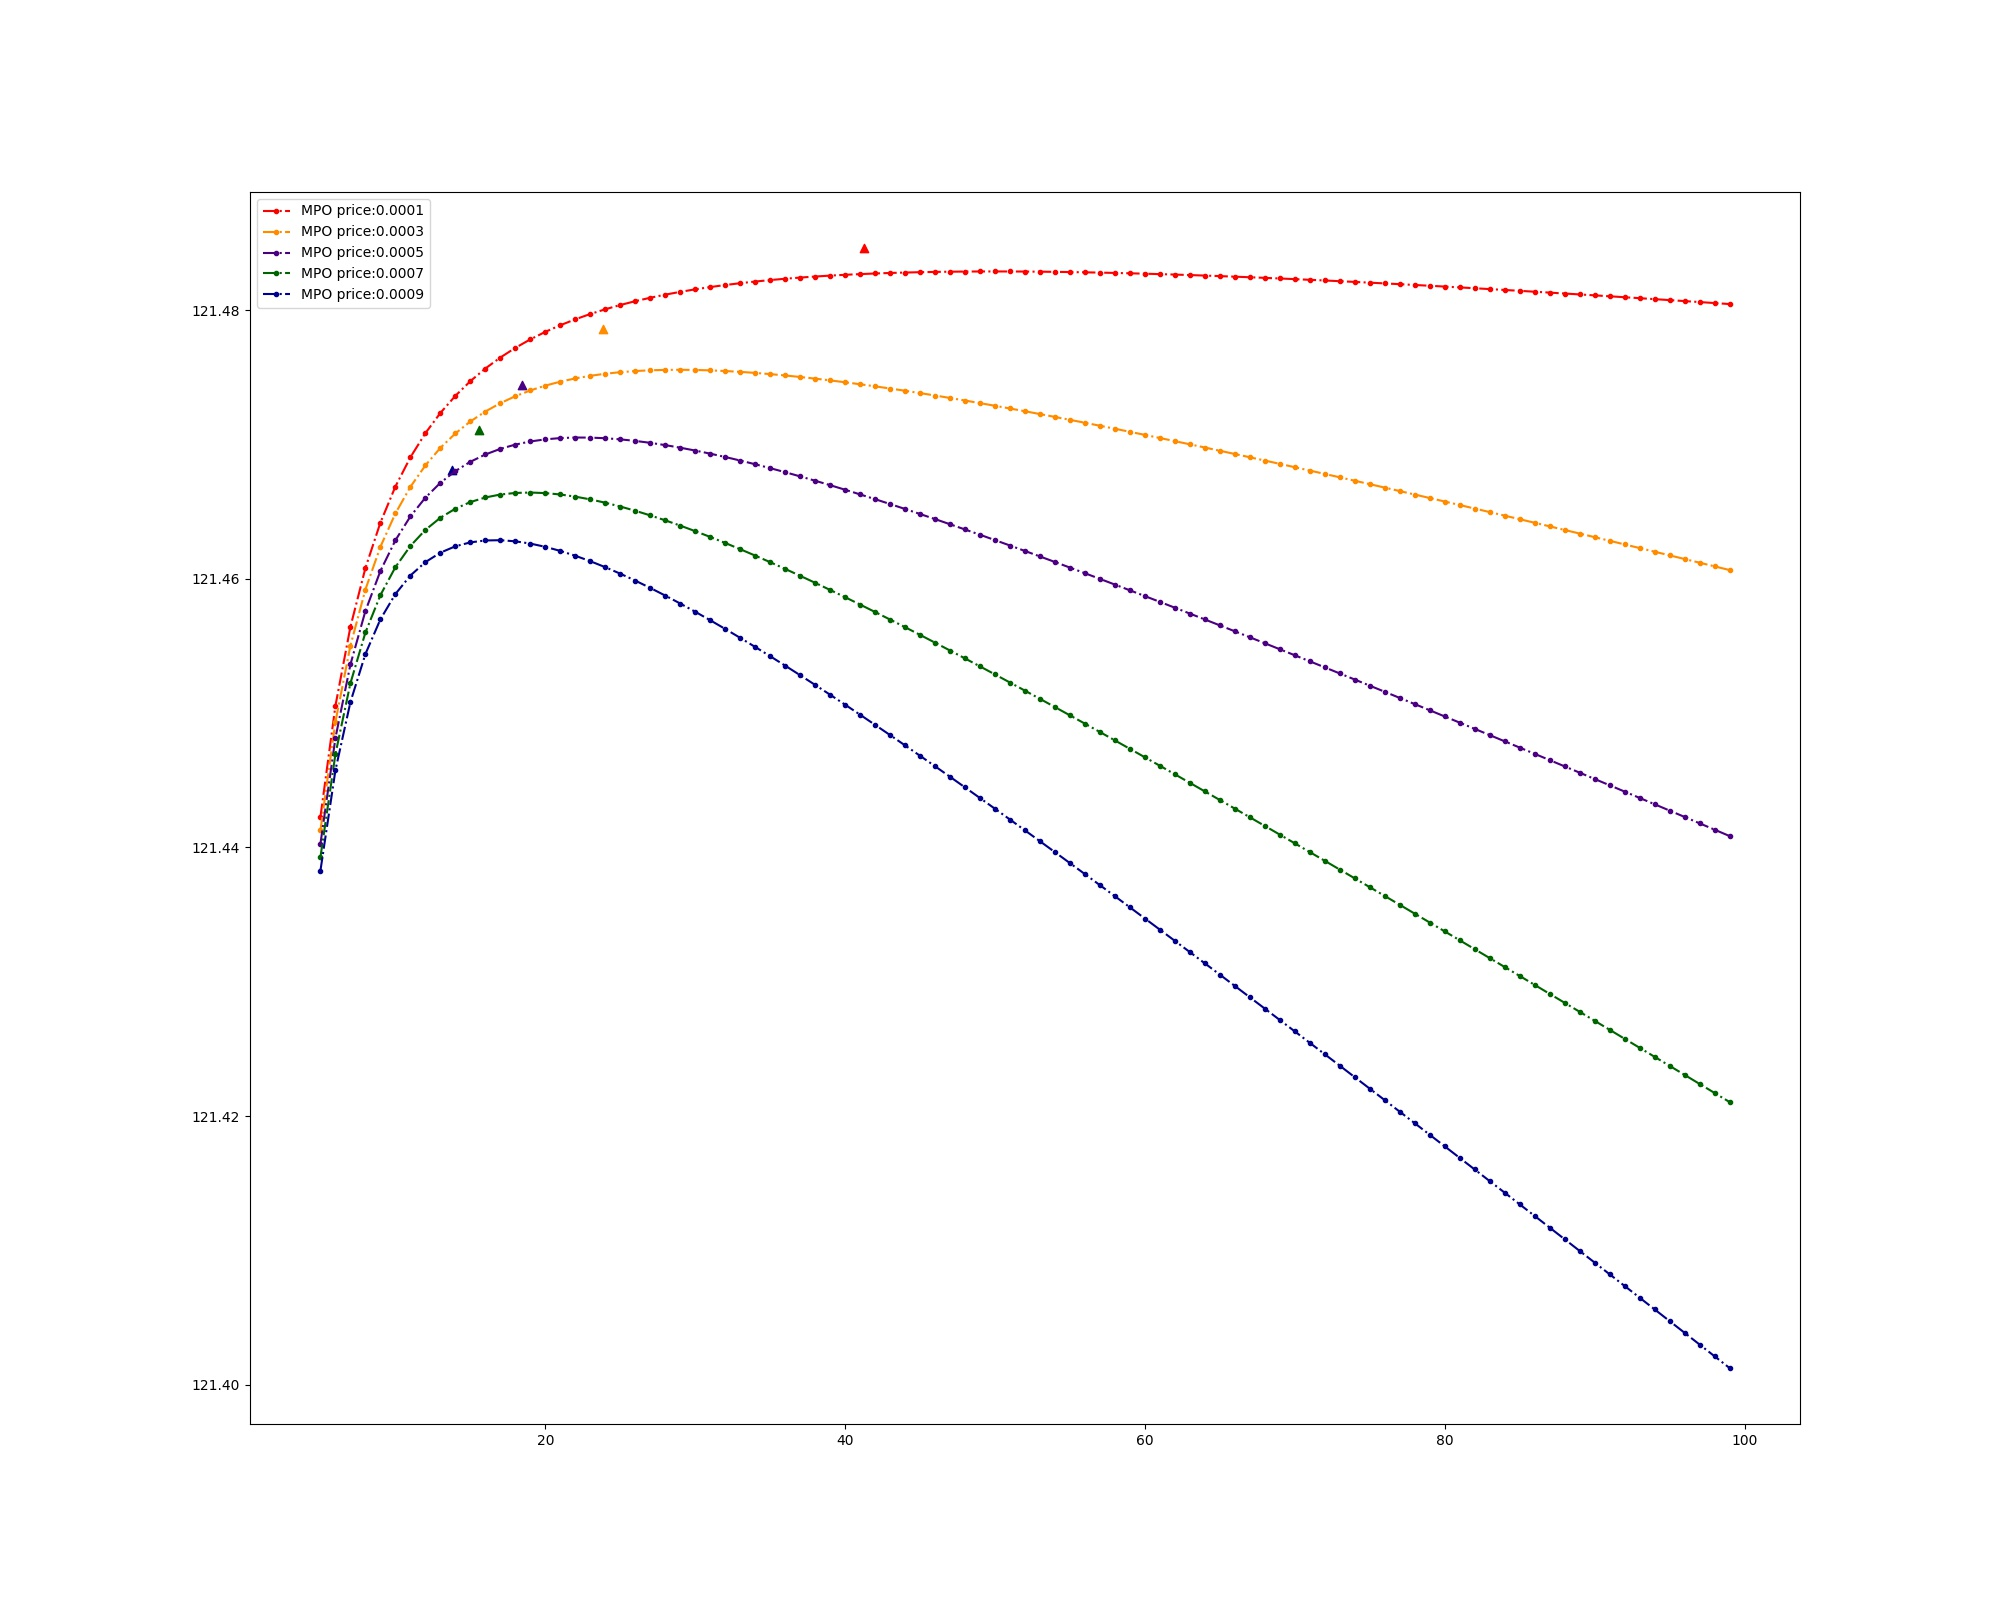
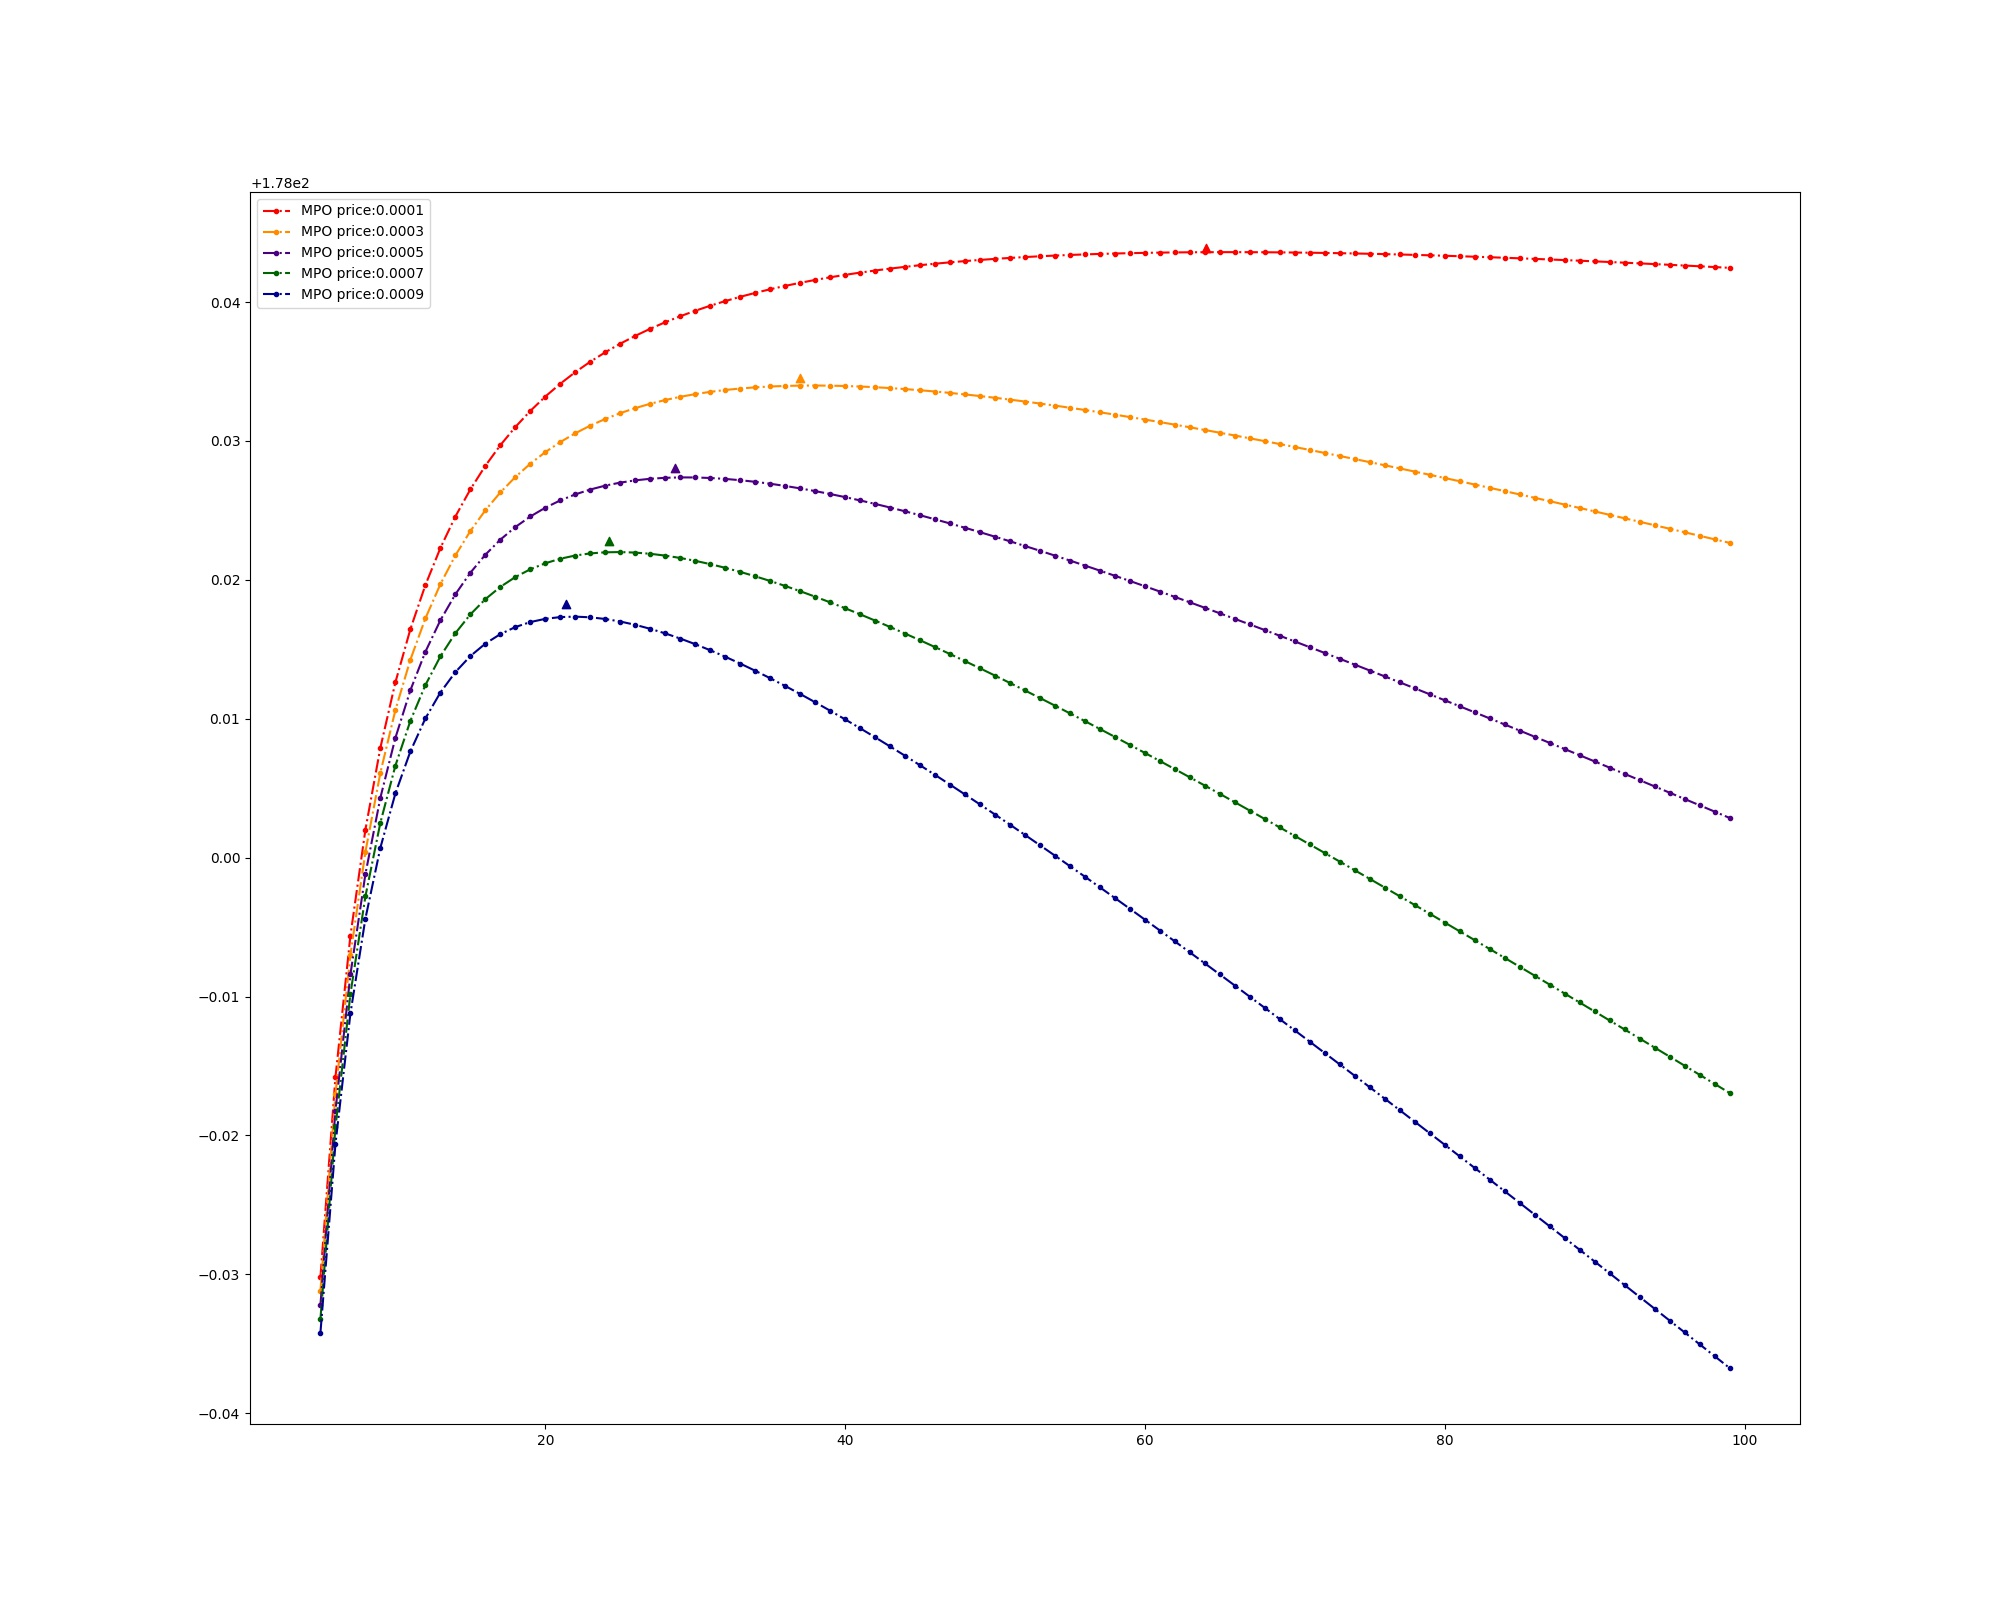
fix graph

diff --git a/simulation_code/asp.py b/simulation_code/asp.py
@@ -58,16 +58,19 @@ class ASP():
         return 1 / ((z_v - z_h) * self.service_rate - (self.arrival_rate - ASP_H(z_h)))
 
     def set_boundary(self):
-        z_v = (self.arrival_rate + self.gamma)/self.service_rate
+        z_v = (self.arrival_rate + self.gamma) / self.service_rate
         z_h = self.chi * z_v
         util1 = 0
         util2 = 0
         for dev in self.device_list:
             util1 += (dev.price_per_task * (1 - ((dev.transmission_time_to_asp + self.time(z_v, z_h) - ASP_DEVICE_LATENCY_LOWER) / (ASP_DEVICE_LATENCY_UPPER - ASP_DEVICE_LATENCY_LOWER))))
             util2 += (dev.price_per_task * (1 - ((dev.transmission_time_to_asp + self.time(z_v, 0) - ASP_DEVICE_LATENCY_LOWER) / (ASP_DEVICE_LATENCY_UPPER - ASP_DEVICE_LATENCY_LOWER))))
-        self.rbound = util1 / z_v
-        self.mbound = util2 / z_v
-        self.lbound = self.total_payment / ((ASP_DEVICE_LATENCY_UPPER - ASP_DEVICE_LATENCY_LOWER) * ((1 - self.chi) * self.service_rate + self.chi * GLOBAL_ETA)) / (z_v - self.arrival_rate / ((1 - self.chi) * self.service_rate + self.chi * GLOBAL_ETA)) ** 2
+        if GLOBAL_ETA > self.service_rate:
+            self.bound = util1 / z_v
+        else:
+
+            self.bound = util2 / z_v
+        #self.lbound = self.total_payment / ((ASP_DEVICE_LATENCY_UPPER - ASP_DEVICE_LATENCY_LOWER) * ((1 - self.chi) * self.service_rate + self.chi * GLOBAL_ETA)) / (z_v - self.arrival_rate / ((1 - self.chi) * self.service_rate + self.chi * GLOBAL_ETA)) ** 2
         return
 
     def set_process_time(self):
@@ -129,7 +132,7 @@ class ASP():
             plt.figure(figsize=(20, 16))
             for mpo_price in mpo_lst:
                 self.mpo_price = mpo_price
-                self.z_v = (1 / self.service_rate) * sqrt(self.service_rate * self.total_payment / ((ASP_DEVICE_LATENCY_UPPER - ASP_DEVICE_LATENCY_LOWER) * self.mpo_price)) + self.arrival_rate / self.service_rate
+                self.z_v = sqrt(self.total_payment / ((ASP_DEVICE_LATENCY_UPPER - ASP_DEVICE_LATENCY_LOWER) * self.mpo_price * self.service_rate)) + self.arrival_rate / self.service_rate
                 self.z_h = 0
                 ut = []
                 z_v = []

diff --git a/simulation_code/mpo.py b/simulation_code/mpo.py
@@ -11,6 +11,7 @@ class MPO():
         self.num_of_asp = randint(MPO_NUM_OF_ASP_LOWER, MPO_NUM_OF_ASP_UPPER)
         self.set_asp()
         self.bd = []
+
     def set_asp(self):
         for i in range(self.num_of_asp):
             self.asp_lst.append(ASP())
@@ -29,10 +30,8 @@ class MPO():
     def set_bd(self):
         for asp in self.asp_lst:
             asp.set_boundary()
-            if  asp.rbound > 0 and asp.rbound < 7000:
-                self.bd.append(asp.rbound)
-            if  asp.mbound > 0 and asp.mbound < 7000:
-                self.bd.append(asp.mbound)
+            if asp.bound > 0 and asp.bound < 7000:
+                self.bd.append(asp.bound)
 
         return
     def optimize_phi(self):
